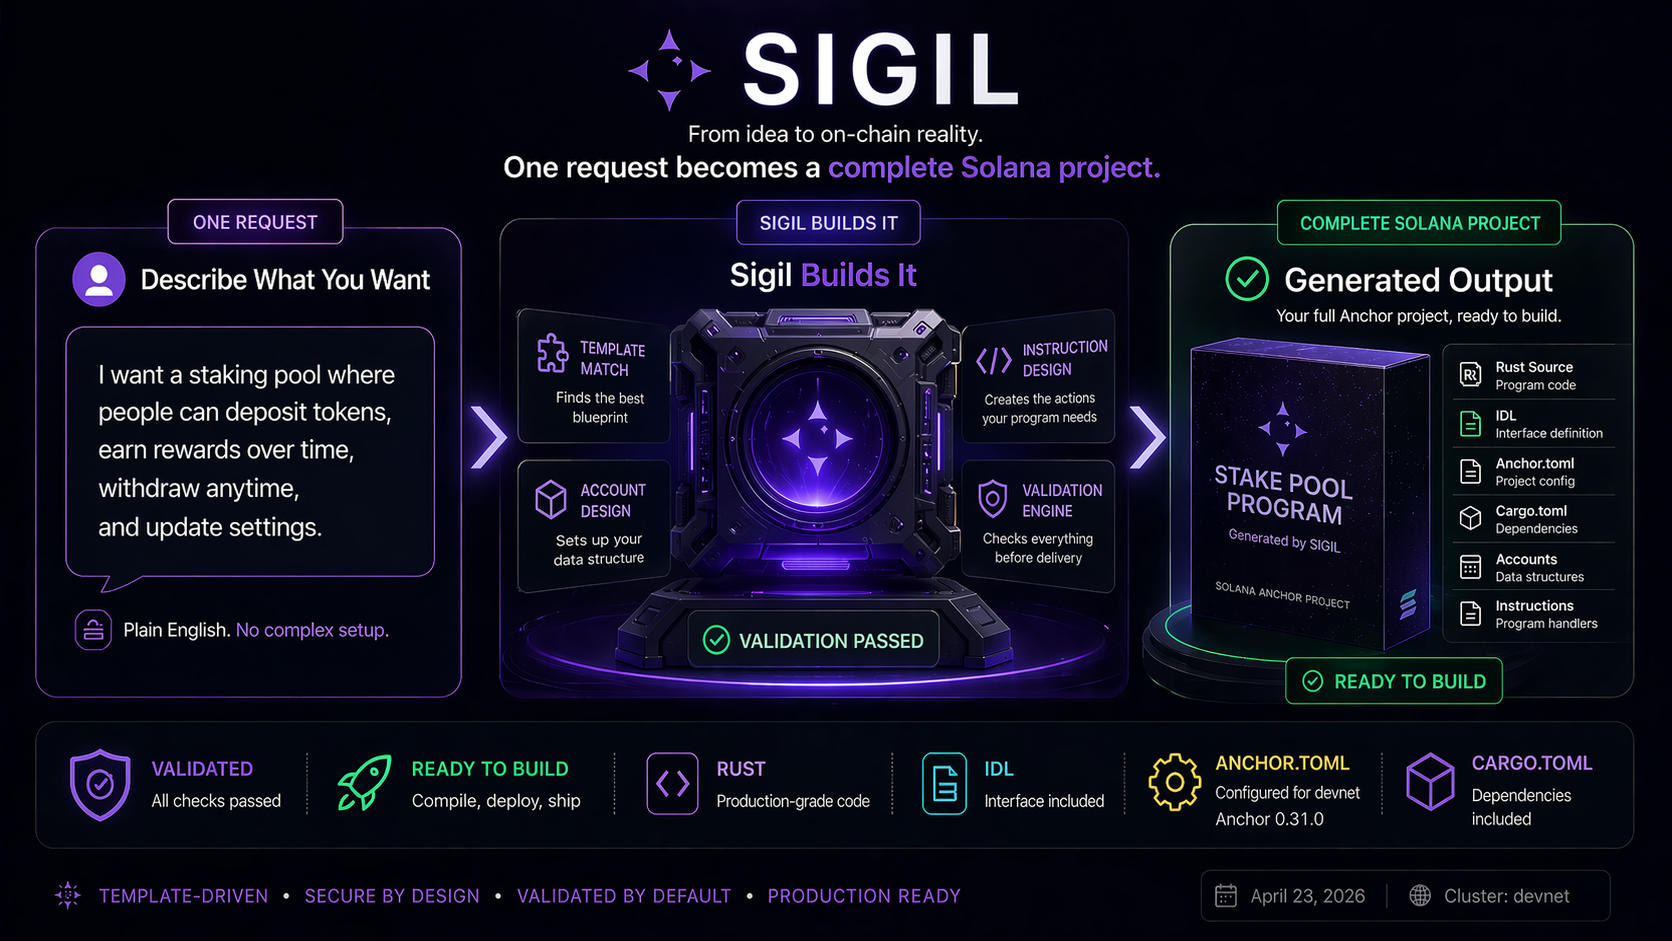
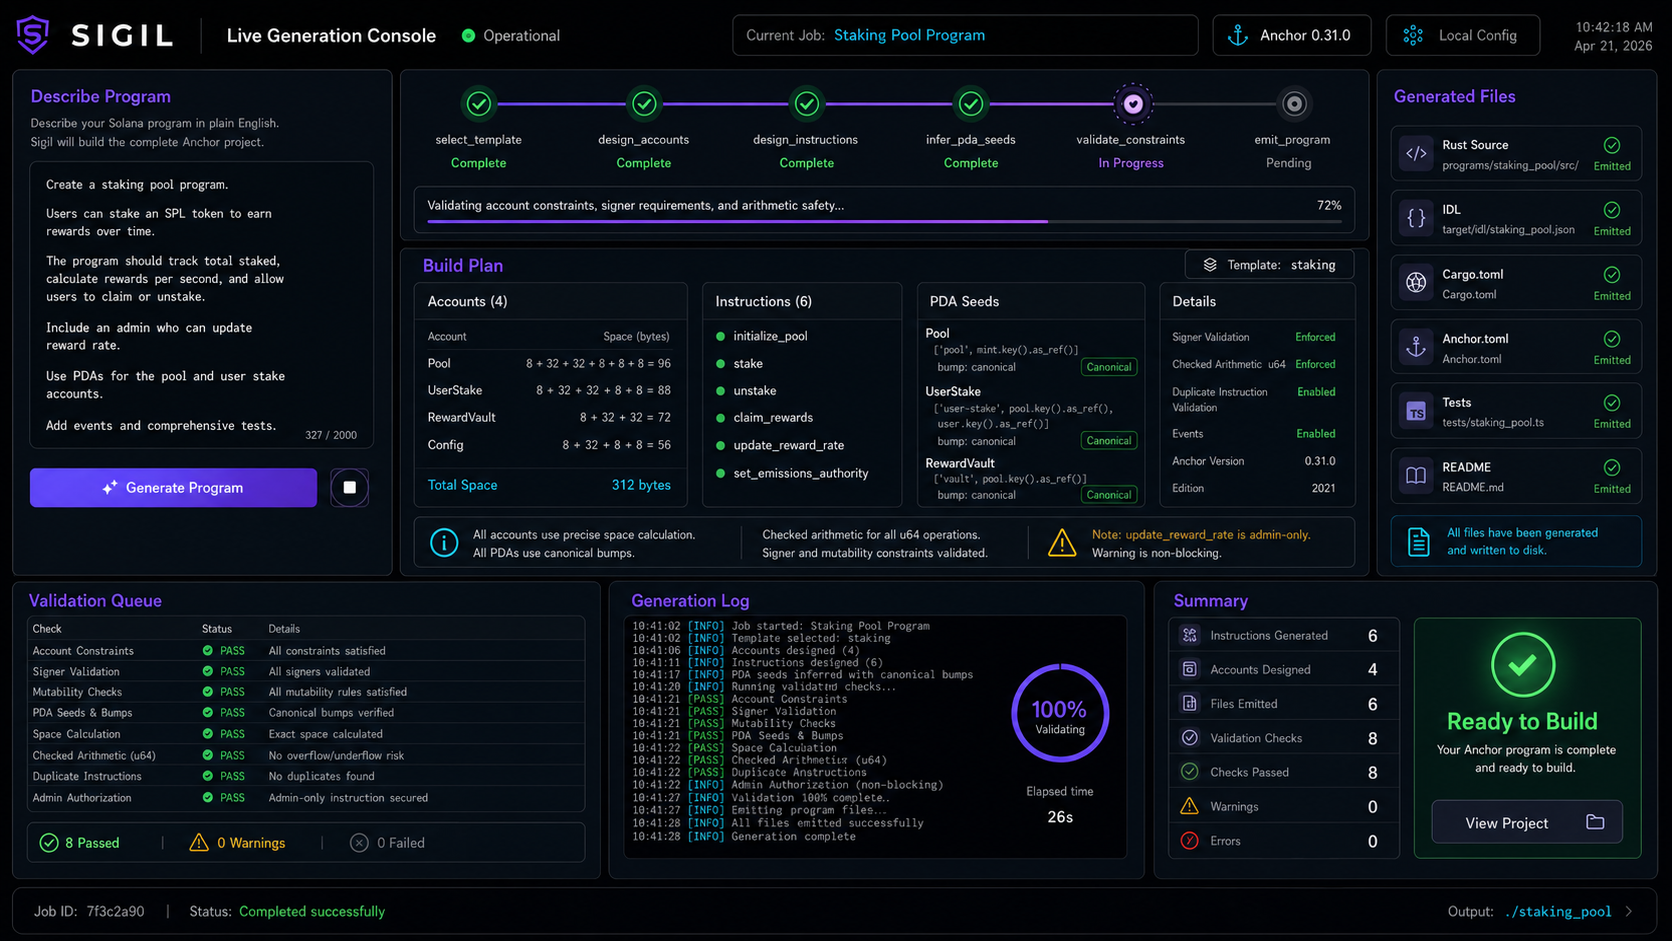
docs: replace sigil generation visuals

diff --git a/README.md b/README.md
@@ -11,7 +11,7 @@ Sigil is an AI agent that turns plain-English descriptions into complete, produc
 
 ---
 
-## Generate From the CLI
+## Live Generation Console
 
 <img src="assets/preview-terminal.png" alt="Sigil generation terminal" width="100%" />
 
@@ -19,11 +19,11 @@ One command. Describe what you want to build. Sigil's Claude agent reasons throu
 
 Every generation produces a complete Anchor project: Rust source split by instruction, on-chain account structs with exact space, a valid IDL, and the config files needed to build and deploy.
 
-## From Request to Project
+## How Sigil Builds
 
 <img src="assets/preview-workflow.png" alt="Sigil request to Anchor project workflow" width="100%" />
 
-Sigil's generation path: parse the plain-English request, select the closest program template, design accounts and instructions, validate the output, and write the full Anchor project structure.
+Sigil's build path: turn the request into a program blueprint, choose the closest template, design accounts and instructions, validate signer and PDA constraints, then emit the complete Anchor project with tests and documentation.
 
 ---
 
